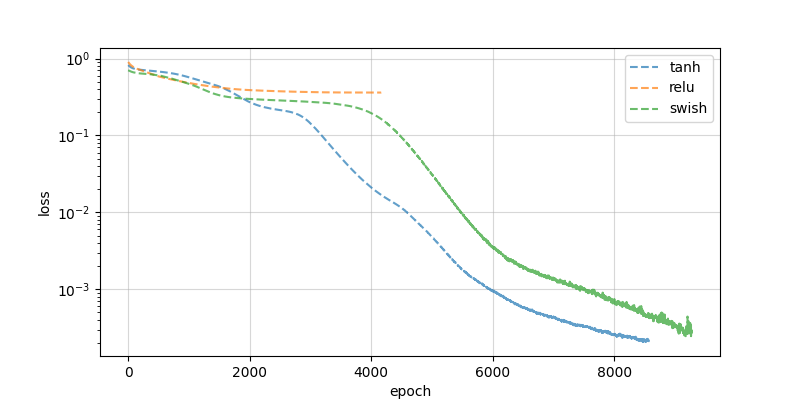
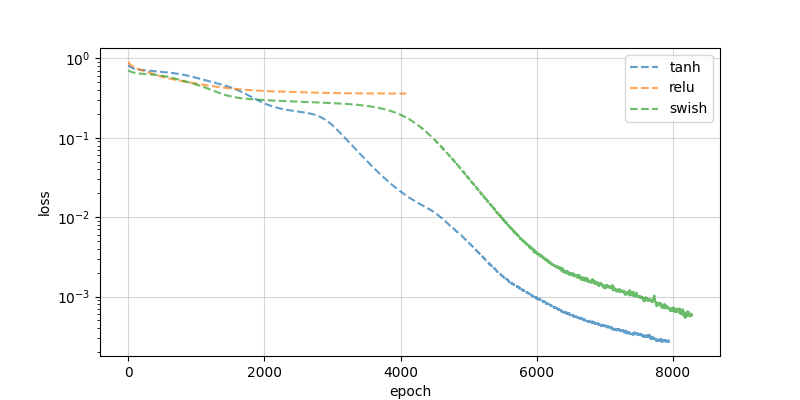
fix training setting

diff --git a/00_tf2/dnn.py b/00_tf2/dnn.py
@@ -257,30 +257,7 @@ class DNN(tf.keras.Model):
 
         else:
             print("\n>>>>> executing mini-batch training")
-            n_itr = ...
-            for epc in range(n_epc):
-                loss_epc = 0.
-                for idx in range(0, n_itr, n_btc):
-                    x_btc = self.x
-                    y_btc = self.x
-                    loss_btc = self.grad_desc(x_btc, y_btc)
-                loss_epc += loss_btc / int(n_itr / n_btc)
-
-                # monitor 
-                if epc % 10 == 0:
-                    elps = time.time() - t0
-                    print("epc: %d, loss: %.6e, elps: %.3f"
-                        % (epc, loss_epc, elps))
-                    t0 = time.time()
-
-                # # save 
-                # if epc % 100 == 0:
-                #     model.save(...)
-
-                # terminate if converged
-                if loss_epc < c_tol:
-                    print(">>>>> converging to the tolerance")
-                    break
+            raise NotImplementedError(">>>>> train")
 
     def infer(
         self, x

diff --git a/00_tf2/main.py b/00_tf2/main.py
@@ -32,7 +32,7 @@ def main():
     f_scl  = "minmax"
     d_type = "float32"
     r_seed = 1234
-    n_epc  = int(5e4)
+    n_epc  = int(3e4)
     n_btc  = -1
     c_tol  = 1e-6
     es_pat = 100
